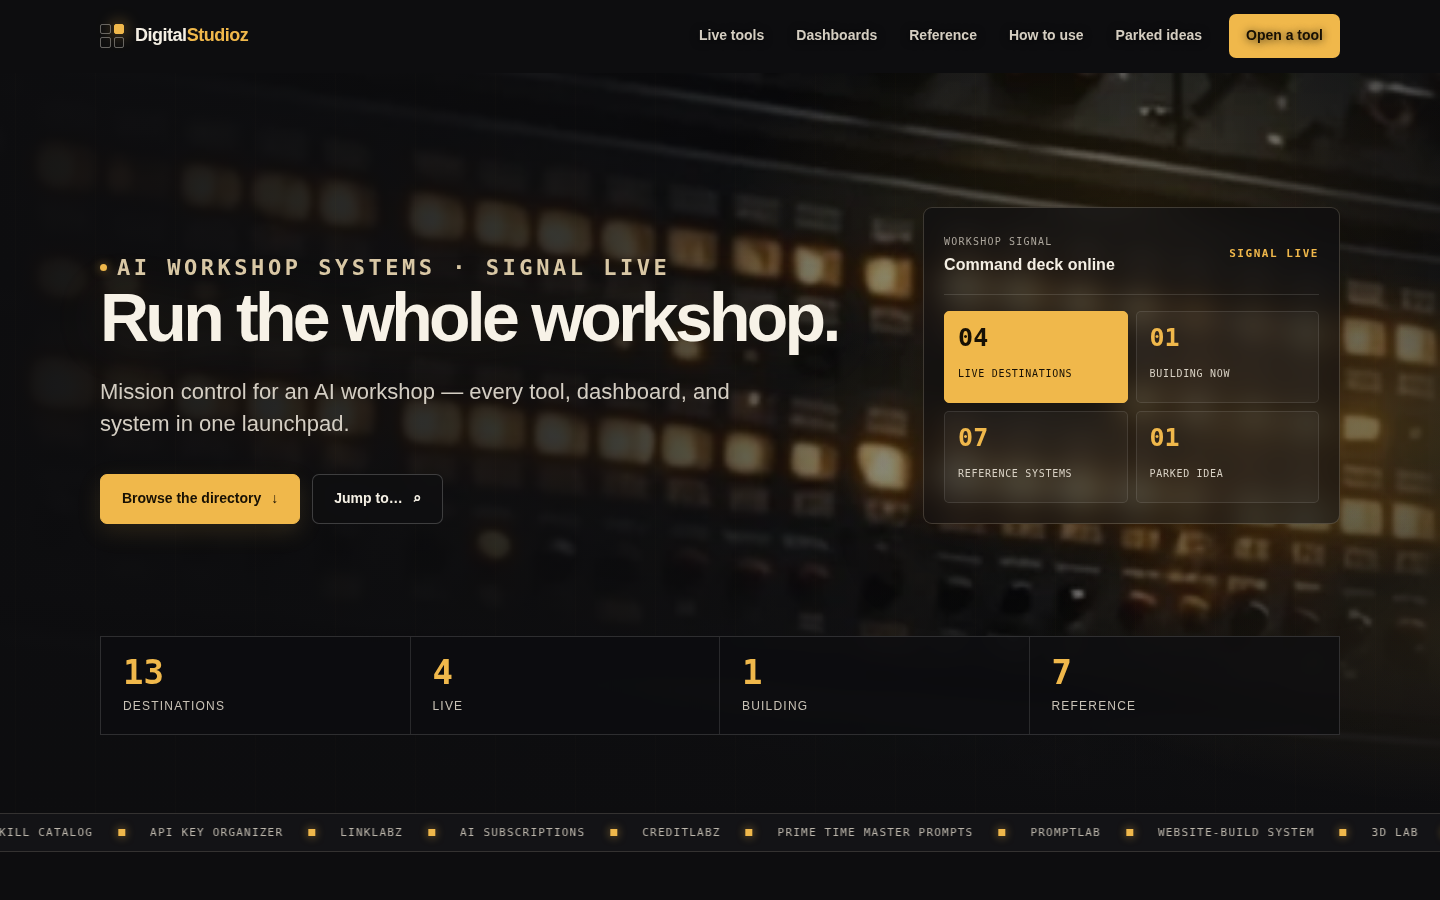
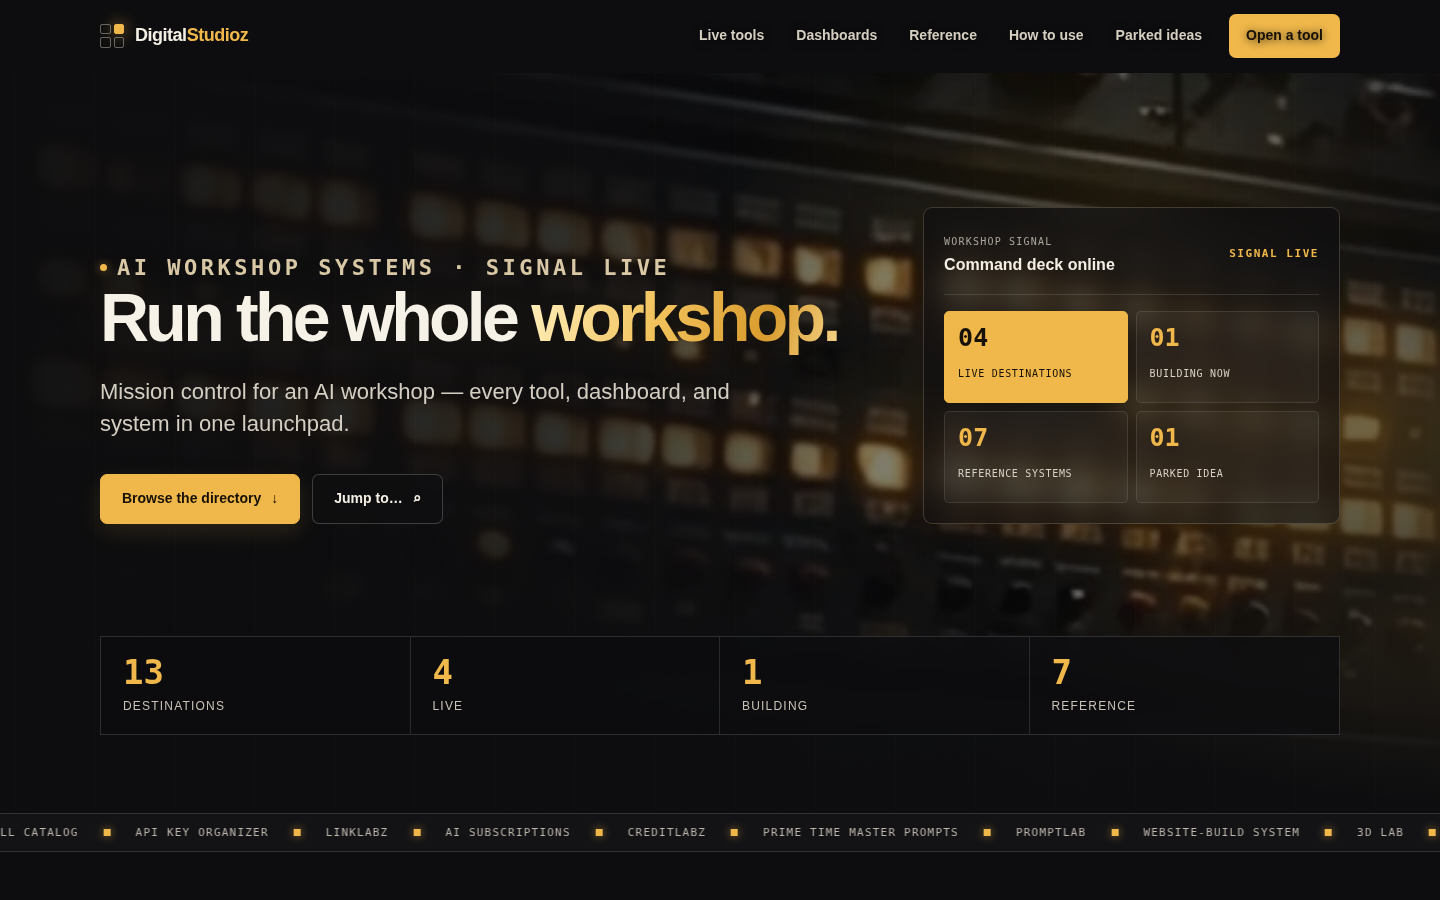
Tweaks: aurora-gold 'workshop.' in hero headline, gold-arrow tile in card lightbox
- Hero: 'Run the whole' stays warm white, only 'workshop.' keeps the
  aurora gold gradient (grad-word span).
- Lightbox thumbnail: replaced card-image clone with a branded tile —
  black rounded square, thin gold border, large gold text-glyph arrow.
  No blue icon, no emoji arrow anywhere in the lightbox.

Changed region(s): [[0.0, 0.9022, 1.0, 0.9333], [0.3438, 0.3111, 0.5938, 0.4044]]

diff --git a/index.html b/index.html
@@ -152,7 +152,7 @@
       .panel-top{align-items:flex-start;gap:10px}.panel-top strong{display:inline-block;max-width:180px;overflow-wrap:anywhere}.signal-tag{font-size:9px;letter-spacing:.09em;text-align:right;white-space:normal}.matrix-cell span{font-size:9px;letter-spacing:.045em}.matrix-cell b{font-size:23px}.card-meta{flex-wrap:wrap}.group-title{gap:10px}.group-title h3{font-size:20px}.group-title .count{font-size:9px}
     }
     @media(prefers-reduced-motion:reduce){html{scroll-behavior:auto}.preloader .signal-grid i:nth-child(2),.ticker{animation:none}.button,.card,.thumb img,.reveal,.back-to-top,.hero .hero-copy>*,.hero .command-panel,.menu-group-panel,.menu-chevron{transition:none!important;animation:none!important}.button,.card,.thumb img,.reveal,.hero .hero-copy>*,.hero .command-panel{transform:none!important}.js .reveal,.js .hero .hero-copy>*,.js .hero .command-panel{opacity:1}.hero::after{background:none}}
-  .lightbox{position:fixed;inset:0;z-index:2000;display:none;align-items:center;justify-content:center;padding:20px}.lightbox.show{display:flex}.lightbox-backdrop{position:absolute;inset:0;background:rgba(5,5,7,.84)}.lightbox-panel{position:relative;width:min(560px,100%);max-height:calc(100dvh - 48px);overflow:auto;background:#141416;border:1px solid rgba(240,184,75,.35);border-radius:18px;box-shadow:0 40px 120px rgba(0,0,0,.6);animation:lb-in .28s ease both}@keyframes lb-in{from{opacity:0;transform:translateY(14px) scale(.98)}to{opacity:1;transform:none}}.lightbox-thumb{aspect-ratio:16/8;overflow:hidden;border-bottom:1px solid var(--line);background:#0b0b0d}.lightbox-thumb img{width:100%;height:100%;object-fit:cover}.lightbox-body{padding:26px 26px 28px}.lightbox-eyebrow{display:flex;align-items:center;gap:10px;margin:0 0 12px;font:600 10px/1 "IBM Plex Mono",monospace;letter-spacing:.14em;text-transform:uppercase;color:var(--accent)}.lb-dot{width:8px;height:8px;border-radius:50%;background:var(--accent);box-shadow:0 0 12px rgba(240,184,75,.8)}.lightbox-body h3{font-size:28px;letter-spacing:-.02em;margin:0 0 10px;line-height:1.1}.lb-desc{color:var(--muted);margin:0 0 14px;font-size:15px}.lb-meta{font:500 10px/1.7 "IBM Plex Mono",monospace;letter-spacing:.12em;text-transform:uppercase;color:var(--muted);margin:0 0 20px}.lb-actions{display:flex;gap:12px;flex-wrap:wrap;margin-bottom:26px}.lb-related-label{font:600 10px/1 "IBM Plex Mono",monospace;letter-spacing:.14em;text-transform:uppercase;color:var(--muted);margin:0 0 12px}.lb-related-list{display:grid;gap:8px}.lb-related-item{display:flex;align-items:center;justify-content:space-between;gap:12px;width:100%;background:rgba(255,244,221,.04);border:1px solid var(--line);border-radius:10px;padding:13px 14px;color:var(--ink);cursor:pointer;font-size:14px;font-weight:600;text-align:left}.lb-related-item:hover{border-color:rgba(240,184,75,.5)}.lb-related-item small{color:var(--muted);font:500 10px/1 "IBM Plex Mono",monospace;letter-spacing:.1em;text-transform:uppercase}.lightbox-close{position:absolute;top:12px;right:12px;width:40px;height:40px;border-radius:50%;background:rgba(10,10,12,.7);border:1px solid var(--line);color:var(--ink);font-size:15px;cursor:pointer;z-index:2}body.lb-open{overflow:hidden}@media (prefers-reduced-motion:reduce){.lightbox-panel{animation:none}.tl-fill{transform:none}}</style>
+  .lightbox{position:fixed;inset:0;z-index:2000;display:none;align-items:center;justify-content:center;padding:20px}.lightbox.show{display:flex}.lightbox-backdrop{position:absolute;inset:0;background:rgba(5,5,7,.84)}.lightbox-panel{position:relative;width:min(560px,100%);max-height:calc(100dvh - 48px);overflow:auto;background:#141416;border:1px solid rgba(240,184,75,.35);border-radius:18px;box-shadow:0 40px 120px rgba(0,0,0,.6);animation:lb-in .28s ease both}@keyframes lb-in{from{opacity:0;transform:translateY(14px) scale(.98)}to{opacity:1;transform:none}}.lightbox-thumb{display:flex;align-items:center;justify-content:center;aspect-ratio:16/8;overflow:hidden;border-bottom:1px solid var(--line);background:radial-gradient(120% 120% at 50% 20%,#151310 0%,#0b0b0d 72%)}.lb-arrow-tile{width:88px;height:88px;border-radius:24px;background:#0b0b0d;border:1px solid rgba(240,184,75,.55);display:flex;align-items:center;justify-content:center;box-shadow:0 8px 22px rgba(0,0,0,.6),inset 0 1px 0 rgba(244,213,137,.14)}.lb-arrow-tile span{color:#f0b84b;font-size:46px;line-height:1;font-weight:700;transform:translate(-1px,-1px)}.lightbox-thumb img{width:100%;height:100%;object-fit:cover}.lightbox-body{padding:26px 26px 28px}.lightbox-eyebrow{display:flex;align-items:center;gap:10px;margin:0 0 12px;font:600 10px/1 "IBM Plex Mono",monospace;letter-spacing:.14em;text-transform:uppercase;color:var(--accent)}.lb-dot{width:8px;height:8px;border-radius:50%;background:var(--accent);box-shadow:0 0 12px rgba(240,184,75,.8)}.lightbox-body h3{font-size:28px;letter-spacing:-.02em;margin:0 0 10px;line-height:1.1}.lb-desc{color:var(--muted);margin:0 0 14px;font-size:15px}.lb-meta{font:500 10px/1.7 "IBM Plex Mono",monospace;letter-spacing:.12em;text-transform:uppercase;color:var(--muted);margin:0 0 20px}.lb-actions{display:flex;gap:12px;flex-wrap:wrap;margin-bottom:26px}.lb-related-label{font:600 10px/1 "IBM Plex Mono",monospace;letter-spacing:.14em;text-transform:uppercase;color:var(--muted);margin:0 0 12px}.lb-related-list{display:grid;gap:8px}.lb-related-item{display:flex;align-items:center;justify-content:space-between;gap:12px;width:100%;background:rgba(255,244,221,.04);border:1px solid var(--line);border-radius:10px;padding:13px 14px;color:var(--ink);cursor:pointer;font-size:14px;font-weight:600;text-align:left}.lb-related-item:hover{border-color:rgba(240,184,75,.5)}.lb-related-item small{color:var(--muted);font:500 10px/1 "IBM Plex Mono",monospace;letter-spacing:.1em;text-transform:uppercase}.lightbox-close{position:absolute;top:12px;right:12px;width:40px;height:40px;border-radius:50%;background:rgba(10,10,12,.7);border:1px solid var(--line);color:var(--ink);font-size:15px;cursor:pointer;z-index:2}body.lb-open{overflow:hidden}@media (prefers-reduced-motion:reduce){.lightbox-panel{animation:none}.tl-fill{transform:none}}</style>
   <script>document.documentElement.classList.add('js');</script>
 </head>
 <body>
@@ -180,7 +180,7 @@
       <div class="shell hero-layout">
         <div class="hero-copy reveal">
           <p class="eyebrow"><span class="hero-signal-dot" aria-hidden="true"></span><span class="eyebrow-text">AI workshop systems · signal live</span></p>
-          <h1 id="hero-title">Run the whole workshop.</h1>
+          <h1 id="hero-title">Run the whole <span class="grad-word">workshop.</span></h1>
           <p>Mission control for an AI workshop — every tool, dashboard, and system in one launchpad.</p>
           <div class="actions"><a class="button primary" href="#directory">Browse the directory <span aria-hidden="true">↓</span></a><a class="button secondary" href="#search">Jump to… <span aria-hidden="true">⌕</span></a></div>
         </div>
@@ -309,8 +309,7 @@
               st=card.querySelector('.card-top .status'),meta=card.querySelector('.card-meta > span'),
               img=card.querySelector('.thumb img'),btn=card.querySelector('.open-link'),
               url=btn?btn.getAttribute('data-url'):'';
-          lbThumb.innerHTML='';
-          if(img){var c=img.cloneNode(false);c.removeAttribute('style');lbThumb.appendChild(c);}
+          lbThumb.innerHTML='<div class="lb-arrow-tile" aria-hidden="true"><span>↗</span></div>';
           lbStatus.textContent=st?st.textContent.trim():'';
           lbTitle.innerHTML=h?h.innerHTML:'';
           lbDesc.textContent=d?d.textContent:'';
